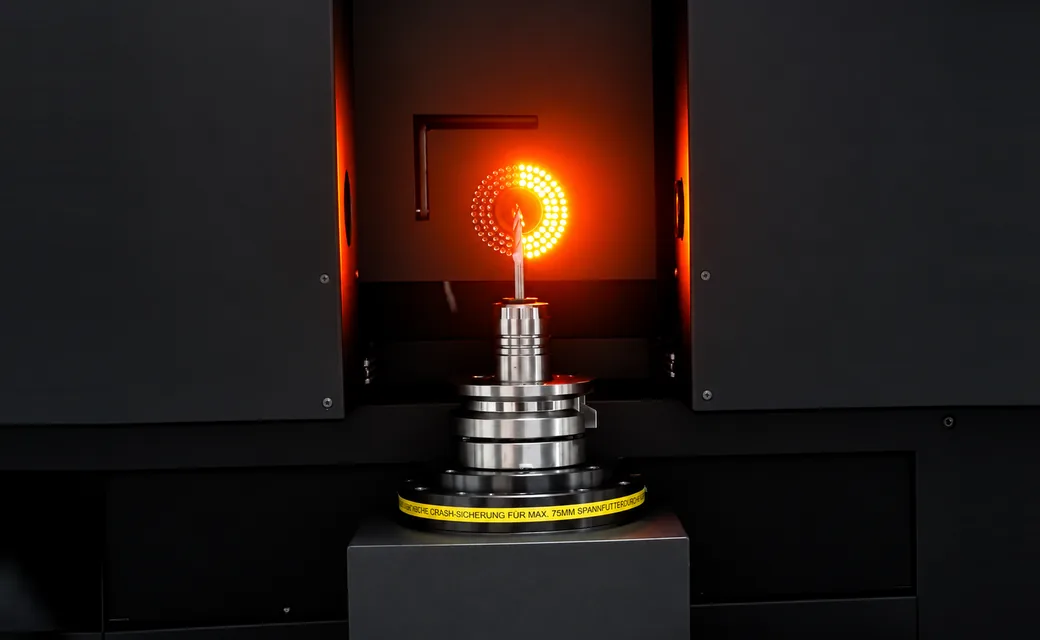
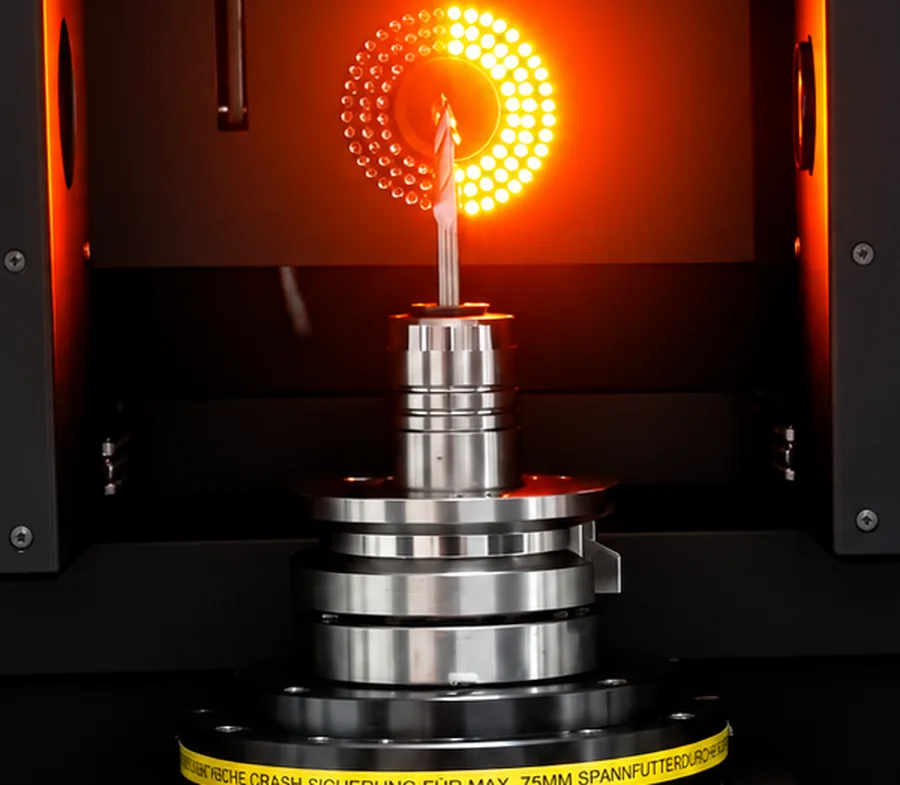
Hero: tighter mobile zoom on slide 4, smaller playback controls
- Re-crop the original Drive photo to a close view of the tool, ring light and
  fixture; the mobile image area is 340px tall on this slide (240px elsewhere)
- Shrink the Play/Pause button and slide counter (desktop and mobile)

Claude-Session: https://claude.ai/code/session_01JjxjKAAWwVfn6BRcGDEGRf

diff --git a/src/pages/ProductShowcase.module.css b/src/pages/ProductShowcase.module.css
@@ -96,13 +96,13 @@
   }
   .bgLayer {
     position: relative;
-    height: 240px;
+    height: var(--hero-img-h, 240px);
   }
   .bgSlide { position: absolute; }
   .bgImg {
     object-position: center;
     padding: 0;
-    height: 240px;
+    height: var(--hero-img-h, 240px);
   }
   .contentWrap {
     position: relative;
@@ -235,7 +235,7 @@
 }
 
 .counterCurrent {
-  font-size: 36px;
+  font-size: 26px;
   font-weight: 700;
   color: #1A2535;
   line-height: 1;
@@ -243,13 +243,13 @@
 }
 
 .counterSep {
-  font-size: 18px;
+  font-size: 14px;
   color: var(--text-muted);
   margin: 0 2px;
 }
 
 .counterTotal {
-  font-size: 18px;
+  font-size: 14px;
   color: var(--text-muted);
   font-weight: 500;
 }
@@ -345,3 +345,11 @@
 @media (max-width: 600px) { .showcase { margin-top: 64px; } }
 
 .tagline { font-size: 18px; font-weight: 600; line-height: 1.4; color: var(--navy); margin-bottom: 18px; }
+
+/* Compact playback button inside the hero (still a 36px+ touch target) */
+.controls :global(.carousel-playback) { min-height: 36px; min-width: 36px; padding: 4px 10px; font-size: 13px; gap: 5px; }
+@media (max-width: 768px) {
+  .counterCurrent { font-size: 20px; }
+  .counterSep, .counterTotal { font-size: 12px; }
+  .controls { gap: 12px; }
+}

diff --git a/src/pages/ProductShowcase.tsx b/src/pages/ProductShowcase.tsx
@@ -104,6 +104,7 @@ export default function ProductShowcase(): JSX.Element {
   return (
     <section
       className={styles.showcase}
+      style={{ '--hero-img-h': slide.mobileImage ? '340px' : '240px' } as React.CSSProperties}
       role="region"
       aria-roledescription="carousel"
       {...playback.interactionProps}
